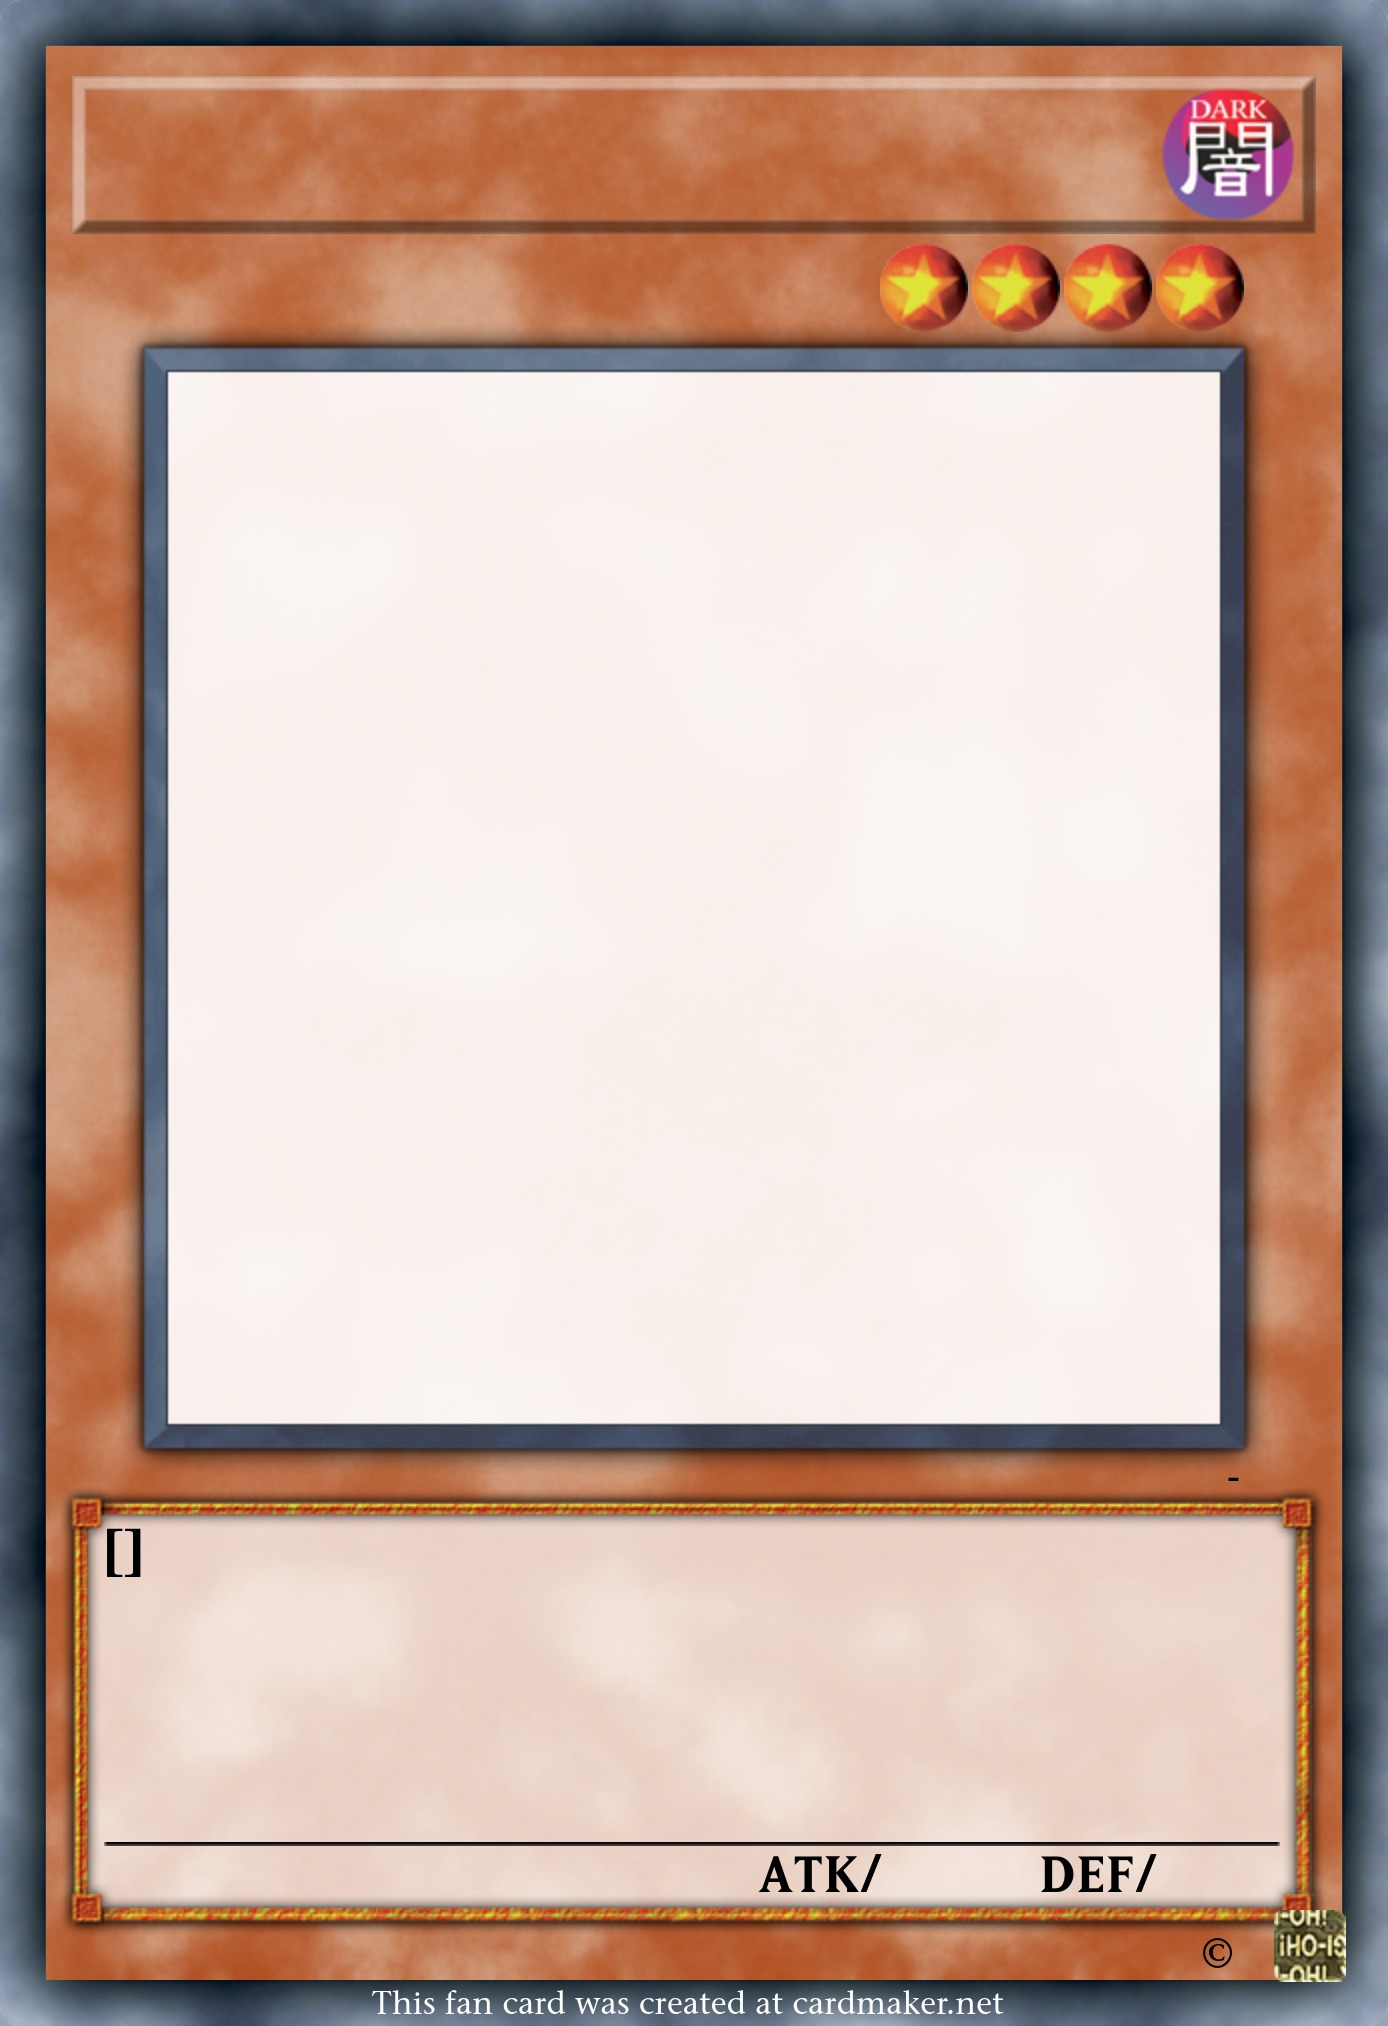
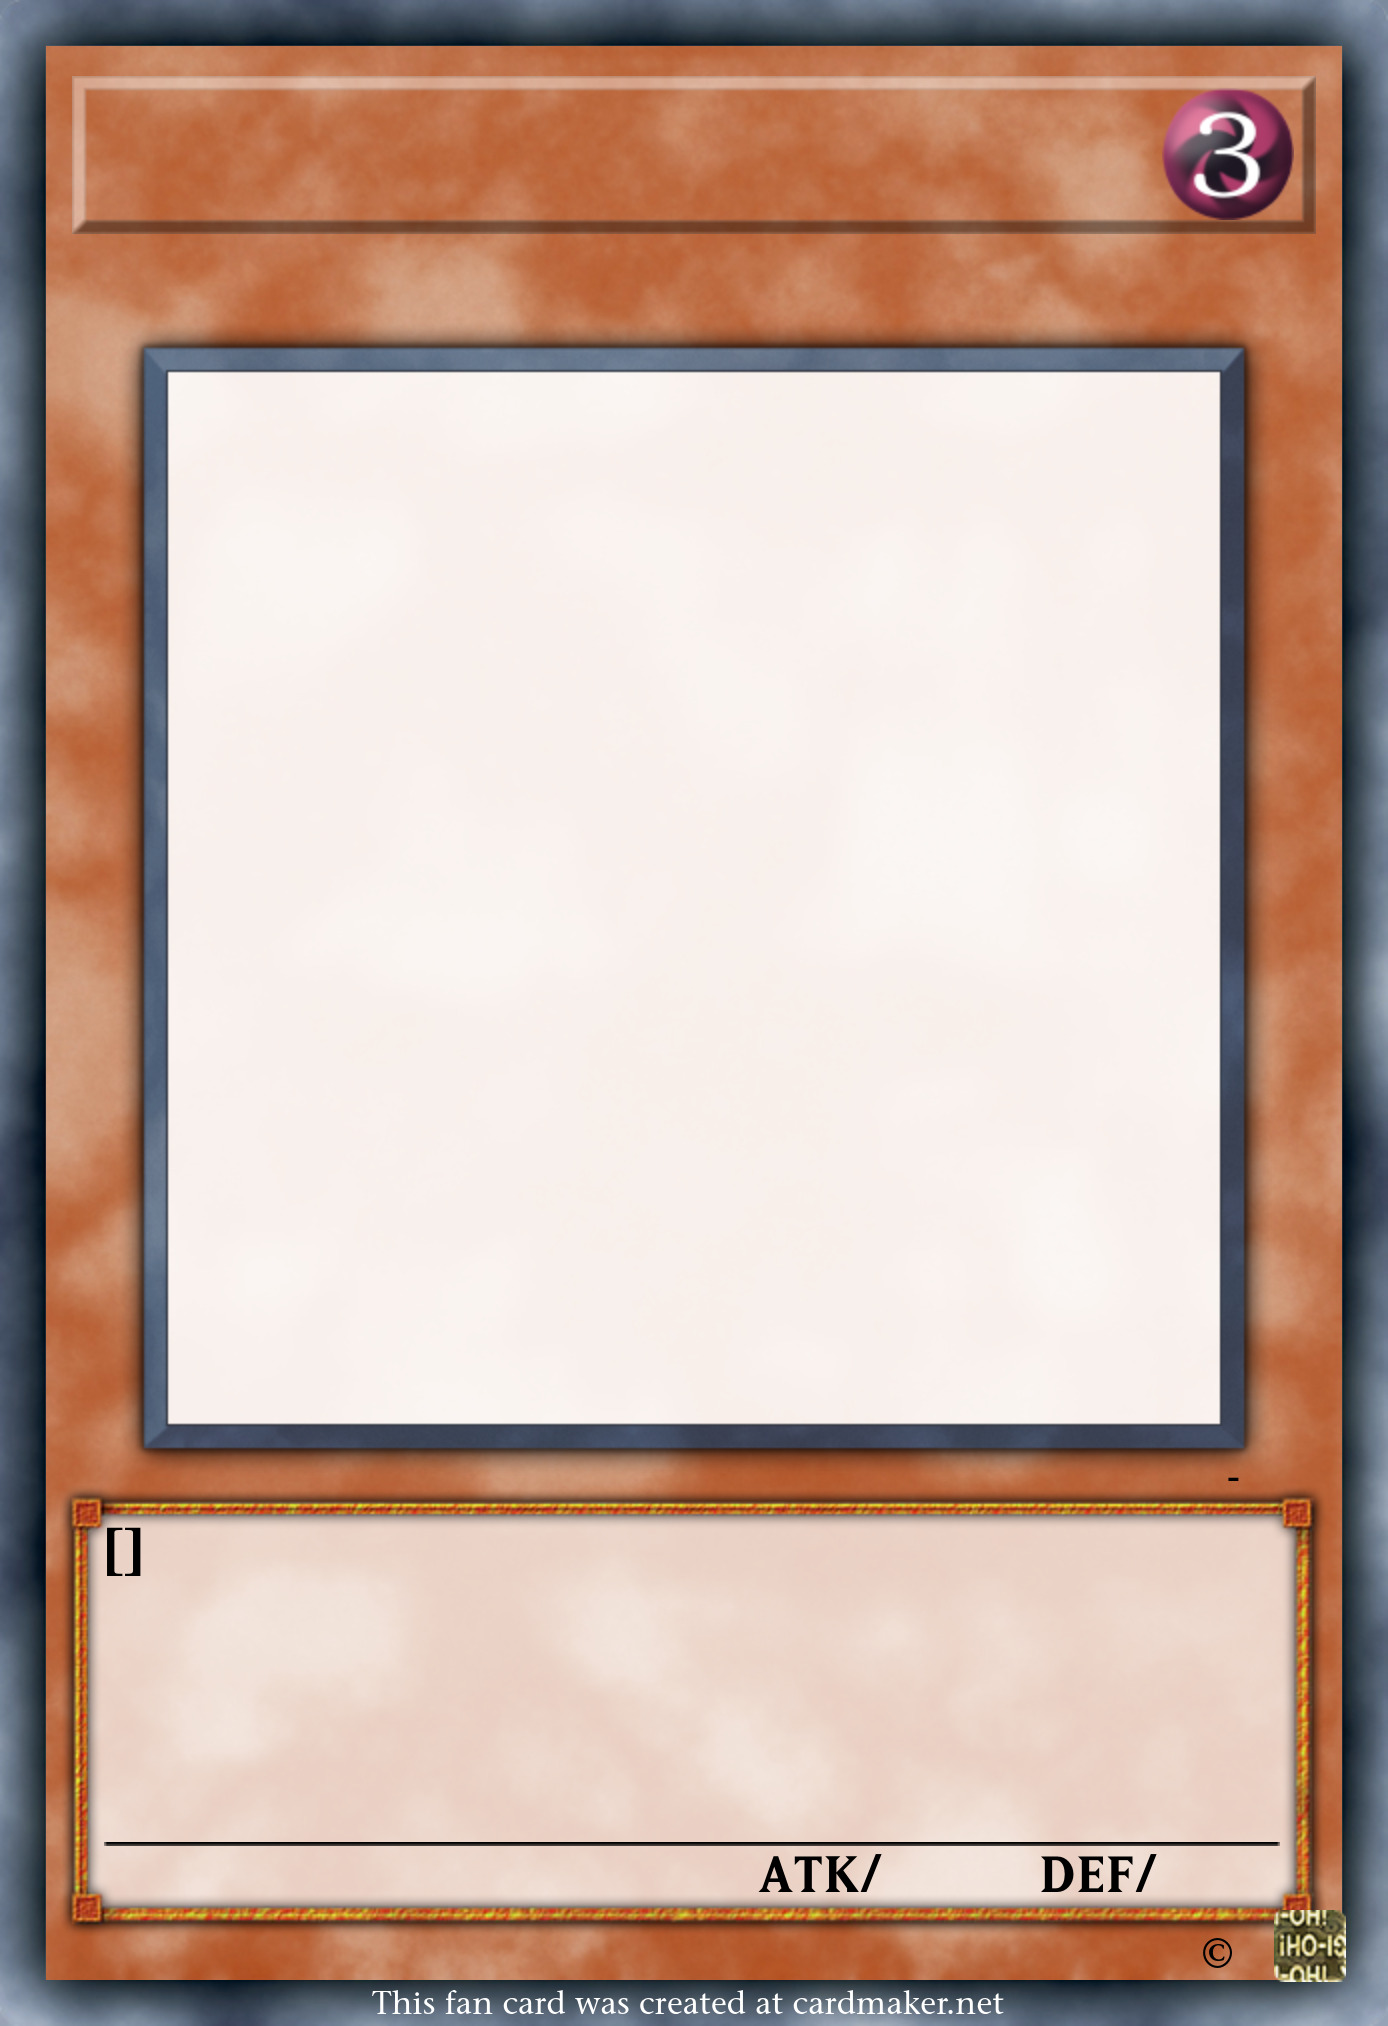
feat: added image, description and title to the image

Changed region(s): [[0.6196, 0.0311, 0.9294, 0.1866]]

diff --git a/README.md b/README.md
@@ -1,0 +1,13 @@
+
+# Yugioh card Maker
+
+An desktop application for creating Yu-Gi-Oh! cards. built with Avalonia FuncUI
+
+
+## First Exampple
+
+<div aling="center">
+    <img src="./Card_Creator/example.png" width="200px" />
+</div>
+
+
